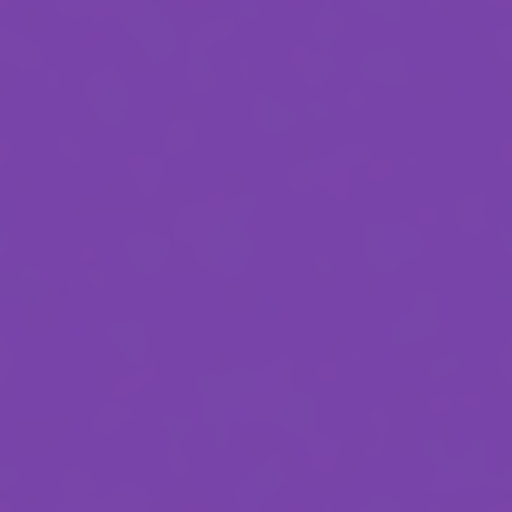
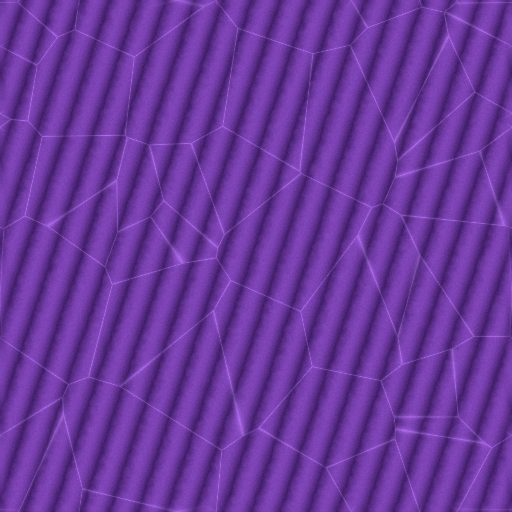
Replace nearly flat crystal surface with detailed quartz striations and inclusions

diff --git a/Tools/refine_materials_v5.py b/Tools/refine_materials_v5.py
@@ -54,7 +54,11 @@ ore_specs=[]
 for name,tint,metal,smooth in [('ore',(.48,.44,.35),.60,.43),('ore-copper',(.54,.29,.13),.68,.48),('ore-coal',(.035,.038,.043),.05,.27)]:
  a=base.copy();a[mineral]=np.array(tint)*( .70+fine[mineral,None]*.45);a*=1-np.exp(-np.abs(vein-.25)*38)[:,:,None]*.035
  ore_specs.append((name,a,smooth,mineral.astype(float)*metal))
-specs=[('bedrock',bed,.17,None),('furnace-side',side,.17,None),('furnace-front',front,.22,rim.astype(float)*.6),('furnace-top',top,.13,None)]+ore_specs
+# Visible crystal inclusions/striations replace the old nearly flat purple albedo.
+quartz=np.clip(np.abs(np.sin(u*2*np.pi*9+v*2*np.pi*3+blur(fine,2)*1.1)),0,1)
+crystal=np.array([.26,.12,.42])+quartz[:,:,None]*np.array([.24,.15,.30])+micro[:,:,None]*.045
+crystal+=np.exp(-edge*1.2)[:,:,None]*np.array([.19,.16,.22])
+specs=[('crystal',crystal,.64,None),('bedrock',bed,.17,None),('furnace-side',side,.17,None),('furnace-front',front,.22,rim.astype(float)*.6),('furnace-top',top,.13,None)]+ore_specs
 for name,a,smooth,metal in specs:
  a=periodic(np.clip(a,0,1));h=periodic(blur(a.mean(-1),.65));dx=(np.roll(h,-1,1)-np.roll(h,1,1))*4;dy=(np.roll(h,-1,0)-np.roll(h,1,0))*4
  slope=np.maximum(1,np.sqrt(dx*dx+dy*dy)/.83);dx/=slope;dy/=slope
@@ -62,5 +66,5 @@ for name,a,smooth,metal in specs:
  metallic=np.zeros_like(h) if metal is None else periodic(metal)
  mask=np.stack([metallic,np.clip(.94-(blur(h,4)-h)*.8,.63,1),h,np.clip(smooth+(h-h.mean())*.28,.06,.65)],-1)
  for kind,data in [('albedo',a),('normal',normal*.5+.5),('mask',mask)]:Image.fromarray(np.uint8(np.clip(data,0,1)*255)).save(O/f'{name}_{kind}.png',optimize=True)
-info=json.loads((O/'materials.json').read_text());info['layers']=[n for n in info['layers'] if n not in ('ore-copper','ore-coal')]+['ore-copper','ore-coal'];info['version']=5;info['iteration10']='Original firebrick/soot/iron firebox, fractured bedrock; iron/copper/coal-like visual lodes of the SAME existing ore block. Derived PBR, not scans.';(O/'materials.json').write_text(json.dumps(info,ensure_ascii=False,indent=2))
-print('7 PBR sets refined; total',len(info['layers']))
+info=json.loads((O/'materials.json').read_text());info['layers']=[n for n in info['layers'] if n not in ('ore-copper','ore-coal')]+['ore-copper','ore-coal'];info['version']=5;info['iteration10']='Original firebrick/soot/iron firebox, fractured bedrock, quartz inclusions/striations; iron/copper/coal-like visual lodes of the SAME existing ore block. Derived PBR, not scans.';(O/'materials.json').write_text(json.dumps(info,ensure_ascii=False,indent=2))
+print('8 PBR sets refined; total',len(info['layers']))

diff --git a/Docs/Итерация-10.md b/Docs/Итерация-10.md
@@ -4,7 +4,7 @@
 - Костёр: три разных ограниченных системы — пламя, искры, расширяющийся дым с турбулентностью, ветром и мягким пересечением геометрии. Общий лимит восемь ближайших костров; удаление блока удаляет эффекты.
 - Настоящий URP ScreenSpaceAmbientOcclusion renderer feature: depth-reconstructed normals, downsample, eight samples, bilateral blur, radius .23, intensity .85. VoxelPBR, VoxelObjects и Grass компилируют вариант `_SCREEN_SPACE_OCCLUSION`; AO встроен в освещение, не чёрный постфильтр. Отдельная кнопка SSAO в настройках, оба пресета включают его.
 - Кристалл: общий исходный voxel model 11 для предмета и установленного кластера. Куб исключён из рендера и коллизии чанка. Видимые кластеры объединены по чанку; mesh collider использует ту же поверхность. Наведение проходит через пустое место у верхушки и проверяет исходную мелкую voxel-сетку, а не невидимый куб. Полностью закрытые породой кластеры не рисуются; правки соседей пересчитывают видимость.
-- Семь обновлённых наборов PBR 512²: три поверхности печи (кладка / закопчённая топка с железом / верх), трещиноватый бедрок, три разных вида прожилок руды. Всего 26 слоёв, полный аудит 18 блоков. Также устранён отсутствовавший цвет осколков станций/досок.
+- Восемь обновлённых наборов PBR 512²: три поверхности печи (кладка / закопчённая топка с железом / верх), трещиноватый бедрок, прожилки и включения кристалла, три разных вида прожилок руды. Всего 26 слоёв, полный аудит 18 блоков. Также устранён отсутствовавший цвет осколков станций/досок.
 - Руда: это **три визуальных варианта прежнего блока 13**, а не три новых добываемых ресурса. Координатный хеш выбирает прожилки одинаково в кооперативе. TerrainGenerator.Version=1, ID блоков, рецепты, дропы и серверный протокол не изменены.
 - Вода уже имела SSR. Добавлено четырёхшаговое уточнение пересечения луча с глубиной. Вне экрана остаётся отражение неба; прозрачные объекты SSR не отражает. Это **не аппаратная трассировка лучей**.
 - Четыре предмета брони и четыре предмета одежды уже реализованы в итерации 09; здесь добавлены живые показатели суммарной защиты/утепления, полоски и проценты прочности, подробные подсказки с текущей прочностью и вкладом защиты, пояснение Shift-клика и рецептов на верстаке. Полный комплект брони защищает от 50% ударного урона, не от всех причин урона.
